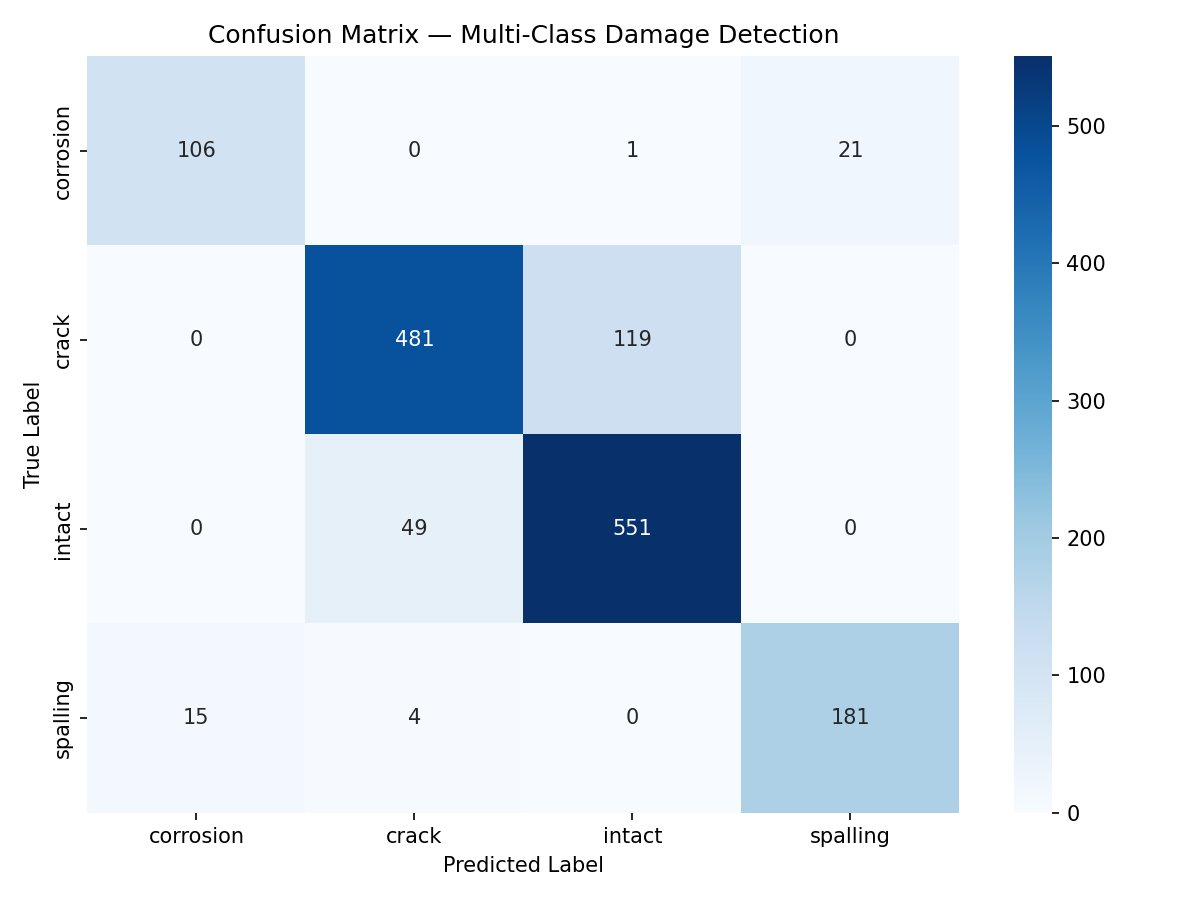
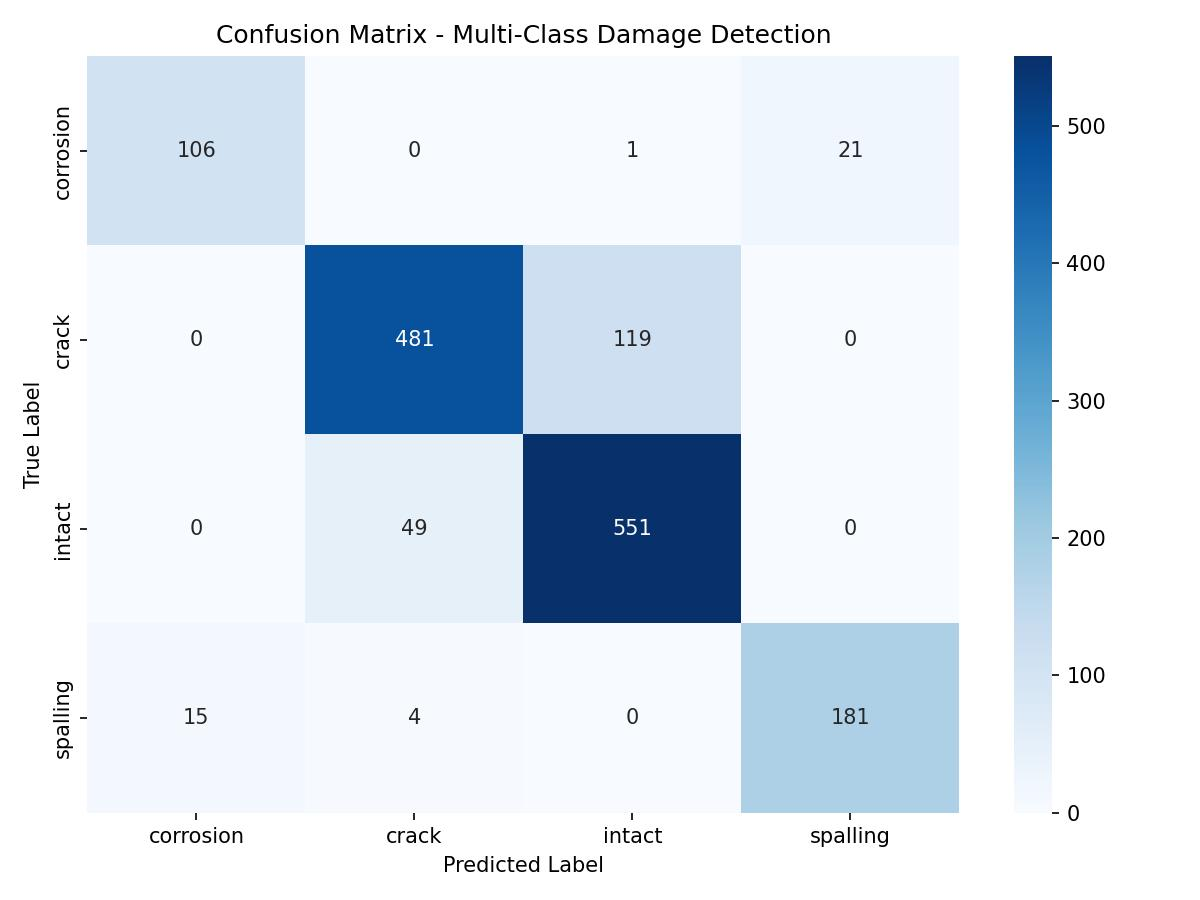
Regenerate all result plots - clean versions

Changed region(s): [[0.1542, 0.0311, 0.7092, 0.0622]]

diff --git a/regenerate_plots.py b/regenerate_plots.py
@@ -1,0 +1,55 @@
+import torch
+import torch.nn as nn
+import numpy as np
+import matplotlib.pyplot as plt
+import seaborn as sns
+from torchvision import datasets, models, transforms
+from torch.utils.data import DataLoader
+from sklearn.metrics import confusion_matrix, classification_report
+import os
+
+DEVICE    = torch.device("cpu")
+DATA_DIR  = "data/codebrim"
+MODEL_PATH = "models/best_resnet50_multiclass.pth"
+
+val_transform = transforms.Compose([
+    transforms.Resize((224, 224)),
+    transforms.ToTensor(),
+    transforms.Normalize([0.485,0.456,0.406],[0.229,0.224,0.225])
+])
+
+val_dataset = datasets.ImageFolder(os.path.join(DATA_DIR, "val"), val_transform)
+val_loader  = DataLoader(val_dataset, batch_size=16, shuffle=False, num_workers=0)
+
+model = models.resnet50(weights=None)
+model.fc = nn.Sequential(
+    nn.Dropout(0.4), nn.Linear(model.fc.in_features, 256),
+    nn.ReLU(), nn.Dropout(0.3), nn.Linear(256, 4)
+)
+model.load_state_dict(torch.load(MODEL_PATH, map_location=DEVICE))
+model.eval()
+
+all_preds, all_labels = [], []
+with torch.no_grad():
+    for inputs, labels in val_loader:
+        outputs = model(inputs)
+        preds   = outputs.argmax(dim=1)
+        all_preds.extend(preds.numpy())
+        all_labels.extend(labels.numpy())
+
+classes = val_dataset.classes
+cm = confusion_matrix(all_labels, all_preds)
+
+plt.figure(figsize=(8, 6))
+sns.heatmap(cm, annot=True, fmt="d", cmap="Blues",
+            xticklabels=classes, yticklabels=classes)
+plt.title("Confusion Matrix - Multi-Class Damage Detection")
+plt.ylabel("True Label")
+plt.xlabel("Predicted Label")
+plt.tight_layout()
+plt.savefig("results/plots/confusion_matrix_multiclass.png", dpi=150)
+plt.savefig("results/plots/confusion_matrix_multiclass.jpg", dpi=150)
+print("Confusion matrix saved.")
+
+report = classification_report(all_labels, all_preds, target_names=classes, digits=4)
+print(report)

diff --git a/regen_curves.py b/regen_curves.py
@@ -1,0 +1,17 @@
+import json, matplotlib.pyplot as plt
+
+with open("results/metrics/history.json") as f:
+    history = json.load(f)
+
+fig, (ax1, ax2) = plt.subplots(1, 2, figsize=(12, 4))
+ax1.plot(history["train_loss"], label="Train")
+ax1.plot(history["val_loss"],   label="Val")
+ax1.set_title("Loss"); ax1.legend()
+ax2.plot(history["train_acc"], label="Train")
+ax2.plot(history["val_acc"],   label="Val")
+ax2.set_title("Accuracy"); ax2.legend()
+plt.suptitle("Structural Damage Detection - Training Results")
+plt.tight_layout()
+plt.savefig("results/plots/training_curves_multiclass.png", dpi=150)
+plt.savefig("results/plots/training_curves_multiclass.jpg", dpi=150)
+print("Training curves saved.")
